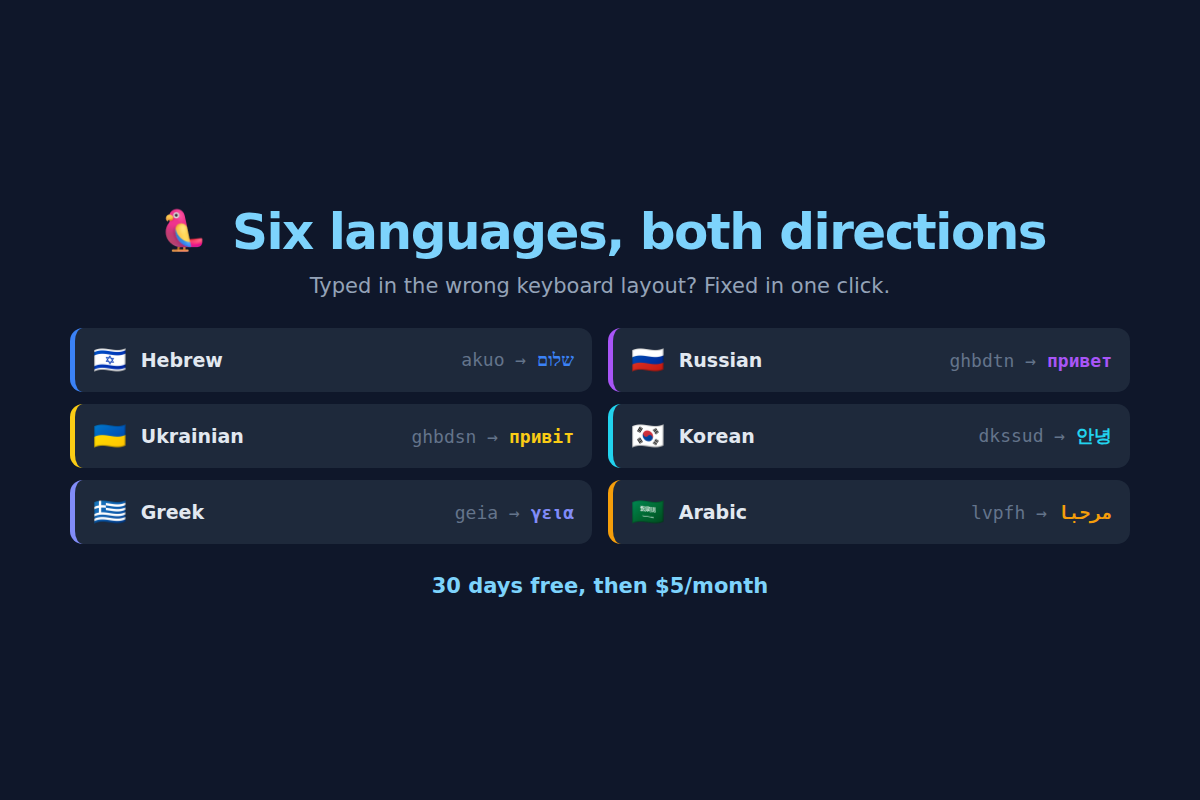
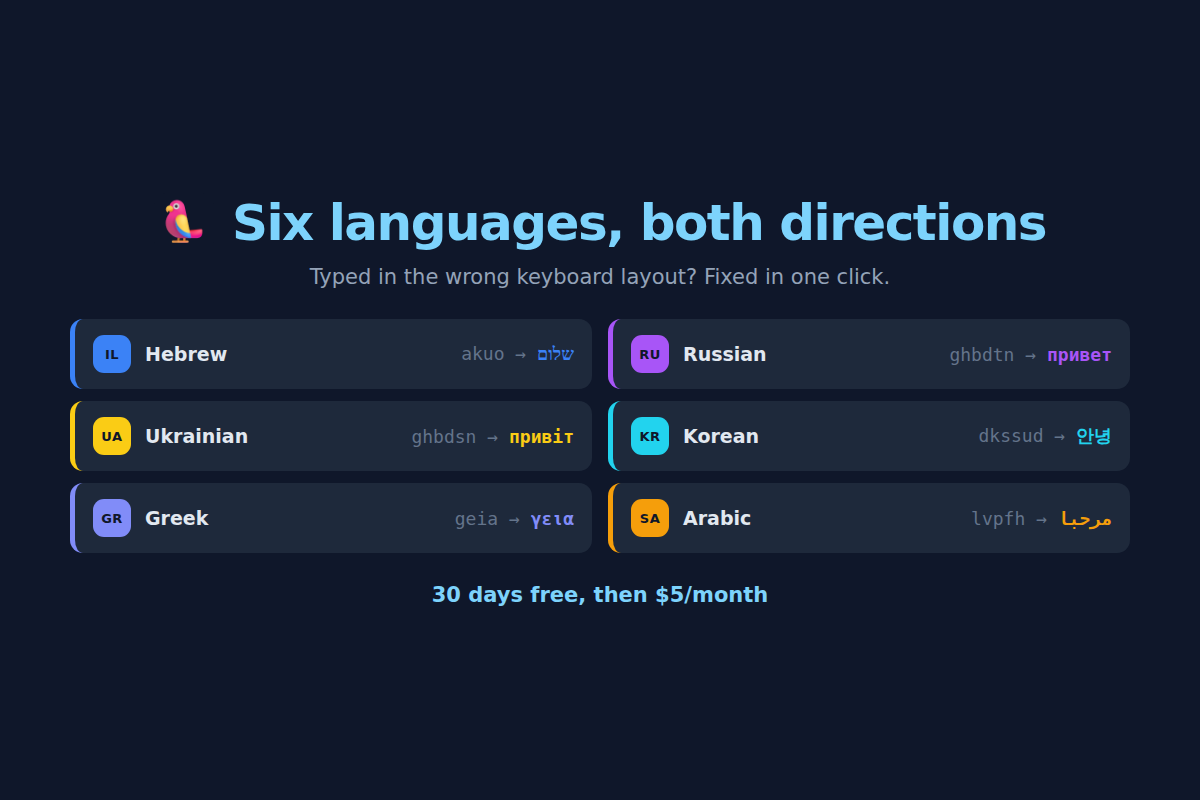
Draw the language flags ourselves so Windows sees them too
Windows has never shipped flag emoji. Every 🇮🇱 we rendered degraded to a
bare "IL" letter pair in a mismatched font — which is exactly what the
welcome screen looked like on the majority of installs.

Replace them with deliberate coloured letter badges everywhere the six
languages are listed: the onboarding screen, the site's hero tabs and
language cards, and the generated store artwork. Same appearance on every
OS, and it matches the per-language accent colours already in use.

The site's badge class is `tab-badge`, not `badge` — an existing `.badge`
rule absolutely-positions the pricing card's ribbon and was pulling the
tab markers out of the flow.

Claude-Session: https://claude.ai/code/session_012ch1muZeD9KHndnjzDPkWn

diff --git a/docs/index.html b/docs/index.html
@@ -83,6 +83,8 @@
       display:flex;align-items:center;gap:7px;transition:all .12s}
     .tab:hover{background:#fff;color:var(--ink)}
     .tab[aria-selected="true"]{background:var(--ink);color:#fff}
+    .tab-badge{width:22px;height:22px;border-radius:7px;display:grid;place-items:center;
+      font-size:9.5px;font-weight:900;letter-spacing:.03em;color:#12111a;background:#cfcce0}
     .demo-body{padding:28px}
     .field-label{font-size:12px;font-weight:700;letter-spacing:.1em;text-transform:uppercase;
       color:var(--ink-3);margin-bottom:9px;display:flex;align-items:center;gap:8px}
@@ -119,7 +121,8 @@
       box-shadow:var(--shadow);transition:transform .14s ease, box-shadow .14s ease}
     .lang:hover{transform:translateY(-3px);box-shadow:var(--shadow-lg)}
     .lang-top{display:flex;align-items:center;gap:11px;margin-bottom:18px}
-    .lang-flag{font-size:24px}
+    .lang-flag{flex:0 0 auto;width:32px;height:32px;border-radius:9px;display:grid;place-items:center;
+      font-size:12px;font-weight:900;letter-spacing:.04em;color:#12111a;background:#cfcce0}
     .lang-name{font-weight:800;font-size:17px;letter-spacing:-.01em}
     .lang-mean{margin-left:auto;font-size:13px;color:var(--ink-3)}
     .row{display:flex;align-items:center;gap:12px;padding:9px 0}
@@ -471,12 +474,14 @@
   // Every "typed" string below was produced by running the extension's own
   // converters over the native text — this is literally what Kiko would show.
   const LANGS = [
-    {code:'he', flag:'🇮🇱', name:'Hebrew',    native:'שלום',   roman:'shalom',   typed:'akuo',   mean:'hello', rtl:true},
-    {code:'ru', flag:'🇷🇺', name:'Russian',   native:'привет', roman:'privet',   typed:'ghbdtn', mean:'hi'},
-    {code:'uk', flag:'🇺🇦', name:'Ukrainian', native:'привіт', roman:'pryvit',   typed:'ghbdsn', mean:'hi'},
-    {code:'ko', flag:'🇰🇷', name:'Korean',    native:'안녕',    roman:'annyeong', typed:'dkssud', mean:'hi'},
-    {code:'el', flag:'🇬🇷', name:'Greek',     native:'γεια',   roman:'yia',      typed:'geia',   mean:'hi'},
-    {code:'ar', flag:'🇸🇦', name:'Arabic',    native:'مرحبا',  roman:'marhaba',  typed:'lvpfh',  mean:'hello', rtl:true}
+    // Deliberate letter badges, not flag emoji — Windows has never shipped flag
+    // glyphs and silently falls back to bare letters, so we draw them ourselves.
+    {code:'he', badge:'IL', tint:'#8fc0ff', name:'Hebrew',    native:'שלום',   roman:'shalom',   typed:'akuo',   mean:'hello', rtl:true},
+    {code:'ru', badge:'RU', tint:'#d3aef9', name:'Russian',   native:'привет', roman:'privet',   typed:'ghbdtn', mean:'hi'},
+    {code:'uk', badge:'UA', tint:'#fbe08a', name:'Ukrainian', native:'привіт', roman:'pryvit',   typed:'ghbdsn', mean:'hi'},
+    {code:'ko', badge:'KR', tint:'#93e7f5', name:'Korean',    native:'안녕',    roman:'annyeong', typed:'dkssud', mean:'hi'},
+    {code:'el', badge:'GR', tint:'#b9bdfa', name:'Greek',     native:'γεια',   roman:'yia',      typed:'geia',   mean:'hi'},
+    {code:'ar', badge:'SA', tint:'#fbd08a', name:'Arabic',    native:'مرحبا',  roman:'marhaba',  typed:'lvpfh',  mean:'hello', rtl:true}
   ];
 
   // -- hero demo ------------------------------------------------------------
@@ -485,7 +490,7 @@
     const b = document.createElement('button');
     b.className = 'tab'; b.type = 'button'; b.setAttribute('role','tab');
     b.setAttribute('aria-selected', i === 0 ? 'true' : 'false');
-    b.innerHTML = `<span>${l.flag}</span>${l.name}`;
+    b.innerHTML = `<span class="tab-badge" style="background:${l.tint}">${l.badge}</span>${l.name}`;
     b.addEventListener('click', () => select(i));
     tabs.appendChild(b);
   });
@@ -513,7 +518,7 @@
   document.getElementById('langcards').innerHTML = LANGS.map(l => `
     <div class="lang">
       <div class="lang-top">
-        <span class="lang-flag">${l.flag}</span>
+        <span class="lang-flag" style="background:${l.tint}">${l.badge}</span>
         <span class="lang-name">${l.name} ↔ English</span>
         <span class="lang-mean">"${l.mean}"</span>
       </div>

diff --git a/keylang/welcome.html b/keylang/welcome.html
@@ -55,7 +55,12 @@
     .lang-card.selected.uk { border-color: #facc15; background: #422006; }
     .lang-card.selected.ko { border-color: #22d3ee; background: #083344; }
     .lang-card.selected.el { border-color: #818cf8; background: #1e1b4b; }
-    .lang-icon { font-size: 28px; flex-shrink: 0; }
+    .lang-icon {
+      flex-shrink: 0; width: 38px; height: 38px; border-radius: 10px;
+      display: flex; align-items: center; justify-content: center;
+      font-size: 13px; font-weight: 800; letter-spacing: .04em;
+      color: #0f172a; background: #64748b;
+    }
     .lang-info { flex: 1; }
     .lang-name { font-size: 15px; font-weight: 700; color: #e2e8f0; }
     .lang-example { font-size: 12px; color: #64748b; margin-top: 2px; }
@@ -95,7 +100,7 @@
     <div class="question">Select your language(s)</div>
     <div class="lang-grid">
       <div class="lang-card" id="card-he" data-lang="he">
-        <div class="lang-icon">🇮🇱</div>
+        <div class="lang-icon" style="background:#3b82f6">IL</div>
         <div class="lang-info">
           <div class="lang-name">Hebrew</div>
           <div class="lang-example">Typed <em>akuo</em> but meant <strong>שלום</strong></div>
@@ -103,7 +108,7 @@
         <div class="lang-check" id="check-he"></div>
       </div>
       <div class="lang-card ru" id="card-ru" data-lang="ru">
-        <div class="lang-icon">🇷🇺</div>
+        <div class="lang-icon" style="background:#a855f7">RU</div>
         <div class="lang-info">
           <div class="lang-name">Russian</div>
           <div class="lang-example">Typed <em>ghbdtn</em> but meant <strong>привет</strong></div>
@@ -111,7 +116,7 @@
         <div class="lang-check" id="check-ru"></div>
       </div>
       <div class="lang-card ar" id="card-ar" data-lang="ar">
-        <div class="lang-icon">🇸🇦</div>
+        <div class="lang-icon" style="background:#f59e0b">SA</div>
         <div class="lang-info">
           <div class="lang-name">Arabic</div>
           <div class="lang-example">Typed <em>ahlan</em> but meant <strong>اهلان</strong></div>
@@ -119,7 +124,7 @@
         <div class="lang-check" id="check-ar"></div>
       </div>
       <div class="lang-card uk" id="card-uk" data-lang="uk">
-        <div class="lang-icon">🇺🇦</div>
+        <div class="lang-icon" style="background:#facc15">UA</div>
         <div class="lang-info">
           <div class="lang-name">Ukrainian</div>
           <div class="lang-example">Typed <em>ghbdsn</em> but meant <strong>привіт</strong></div>
@@ -127,7 +132,7 @@
         <div class="lang-check" id="check-uk"></div>
       </div>
       <div class="lang-card ko" id="card-ko" data-lang="ko">
-        <div class="lang-icon">🇰🇷</div>
+        <div class="lang-icon" style="background:#22d3ee">KR</div>
         <div class="lang-info">
           <div class="lang-name">Korean</div>
           <div class="lang-example">Typed <em>dkssud</em> but meant <strong>안녕</strong></div>
@@ -135,7 +140,7 @@
         <div class="lang-check" id="check-ko"></div>
       </div>
       <div class="lang-card el" id="card-el" data-lang="el">
-        <div class="lang-icon">🇬🇷</div>
+        <div class="lang-icon" style="background:#818cf8">GR</div>
         <div class="lang-info">
           <div class="lang-name">Greek</div>
           <div class="lang-example">Typed <em>geia</em> but meant <strong>γεια</strong></div>

diff --git a/keylang/make-store-assets.py b/keylang/make-store-assets.py
@@ -73,7 +73,12 @@ h1 { font-size:46px; color:#7dd3fc; margin-bottom:8px; font-weight:800; }
 .grid { display:grid; grid-template-columns:repeat(2,minmax(0,440px)); gap:16px 26px; }
 .row { display:flex; align-items:center; gap:16px; background:#1e293b;
   border-radius:12px; padding:18px 22px; border-left:4px solid var(--c); }
-.flag { font-size:30px; }
+/* Letter badges rather than flag emoji: Windows draws no flag glyphs and
+   silently degrades them to bare letter pairs. Draw them ourselves so the
+   screenshot matches what every user actually sees. */
+.flag { flex:0 0 auto; width:40px; height:40px; border-radius:11px; background:var(--c);
+  display:flex; align-items:center; justify-content:center;
+  font-size:14px; font-weight:800; letter-spacing:.04em; color:#0f172a; }
 .pair { flex:1; }
 .name { font-size:17px; font-weight:700; color:#e2e8f0; }
 .ex { font-size:15px; color:#64748b; margin-top:3px; font-family:ui-monospace,monospace; }
@@ -83,17 +88,17 @@ h1 { font-size:46px; color:#7dd3fc; margin-bottom:8px; font-weight:800; }
 <h1><img src="icon128.png" alt="" width="42" height="42" style="border-radius:11px;vertical-align:-7px"> Six languages, both directions</h1>
 <div class="sub">Kiko reads what you typed and what you meant — then fixes it in one click.</div>
 <div class="grid">
-  <div class="row" style="--c:#3b82f6"><span class="flag">🇮🇱</span><div class="pair">
+  <div class="row" style="--c:#3b82f6"><span class="flag">IL</span><div class="pair">
     <div class="name">Hebrew ↔ English</div><div class="ex">akuo → <b>שלום</b></div></div></div>
-  <div class="row" style="--c:#a855f7"><span class="flag">🇷🇺</span><div class="pair">
+  <div class="row" style="--c:#a855f7"><span class="flag">RU</span><div class="pair">
     <div class="name">Russian ↔ English</div><div class="ex">ghbdtn → <b>привет</b></div></div></div>
-  <div class="row" style="--c:#facc15"><span class="flag">🇺🇦</span><div class="pair">
+  <div class="row" style="--c:#facc15"><span class="flag">UA</span><div class="pair">
     <div class="name">Ukrainian ↔ English</div><div class="ex">ghbdsn → <b>привіт</b></div></div></div>
-  <div class="row" style="--c:#22d3ee"><span class="flag">🇰🇷</span><div class="pair">
+  <div class="row" style="--c:#22d3ee"><span class="flag">KR</span><div class="pair">
     <div class="name">Korean ↔ English</div><div class="ex">dkssud → <b>안녕</b></div></div></div>
-  <div class="row" style="--c:#818cf8"><span class="flag">🇬🇷</span><div class="pair">
+  <div class="row" style="--c:#818cf8"><span class="flag">GR</span><div class="pair">
     <div class="name">Greek ↔ English</div><div class="ex">geia → <b>γεια</b></div></div></div>
-  <div class="row" style="--c:#f59e0b"><span class="flag">🇸🇦</span><div class="pair">
+  <div class="row" style="--c:#f59e0b"><span class="flag">SA</span><div class="pair">
     <div class="name">Arabic ↔ English</div><div class="ex">lvpfh → <b>مرحبا</b></div></div></div>
 </div>
 <div class="foot">30 days free · No account · Nothing leaves your browser</div>
@@ -116,7 +121,10 @@ h1 img{width:60px;height:60px;border-radius:15px}
 .rows{display:grid;grid-template-columns:1fr 1fr;gap:12px 16px;width:100%}
 .row{display:flex;align-items:center;gap:14px;background:#1e293b;border-radius:13px;
   padding:16px 18px;border-left:5px solid var(--c)}
-.flag{font-size:27px}
+/* Letter badges, not flag emoji — Windows renders no flag glyphs. */
+.flag{flex:0 0 auto;width:38px;height:38px;border-radius:11px;background:var(--c);
+  display:flex;align-items:center;justify-content:center;
+  font-size:13px;font-weight:800;letter-spacing:.04em;color:#0f172a}
 .name{font-size:19px;font-weight:700;color:#e2e8f0;flex:1}
 .ex{font-size:18px;color:#64748b;font-family:ui-monospace,monospace}
 .ex b{color:var(--c);font-family:inherit}
@@ -125,12 +133,12 @@ h1 img{width:60px;height:60px;border-radius:15px}
 <h1><img src="icon128.png" alt=""> Six languages, both directions</h1>
 <div class="sub">Typed in the wrong keyboard layout? Fixed in one click.</div>
 <div class="rows">
-  <div class="row" style="--c:#3b82f6"><span class="flag">&#127470;&#127473;</span><span class="name">Hebrew</span><span class="ex">akuo &rarr; <b>&#1513;&#1500;&#1493;&#1501;</b></span></div>
-  <div class="row" style="--c:#a855f7"><span class="flag">&#127479;&#127482;</span><span class="name">Russian</span><span class="ex">ghbdtn &rarr; <b>&#1087;&#1088;&#1080;&#1074;&#1077;&#1090;</b></span></div>
-  <div class="row" style="--c:#facc15"><span class="flag">&#127482;&#127462;</span><span class="name">Ukrainian</span><span class="ex">ghbdsn &rarr; <b>&#1087;&#1088;&#1080;&#1074;&#1110;&#1090;</b></span></div>
-  <div class="row" style="--c:#22d3ee"><span class="flag">&#127472;&#127479;</span><span class="name">Korean</span><span class="ex">dkssud &rarr; <b>&#50504;&#45397;</b></span></div>
-  <div class="row" style="--c:#818cf8"><span class="flag">&#127468;&#127479;</span><span class="name">Greek</span><span class="ex">geia &rarr; <b>&#947;&#949;&#953;&#945;</b></span></div>
-  <div class="row" style="--c:#f59e0b"><span class="flag">&#127480;&#127462;</span><span class="name">Arabic</span><span class="ex">lvpfh &rarr; <b>&#1605;&#1585;&#1581;&#1576;&#1575;</b></span></div>
+  <div class="row" style="--c:#3b82f6"><span class="flag">IL</span><span class="name">Hebrew</span><span class="ex">akuo &rarr; <b>&#1513;&#1500;&#1493;&#1501;</b></span></div>
+  <div class="row" style="--c:#a855f7"><span class="flag">RU</span><span class="name">Russian</span><span class="ex">ghbdtn &rarr; <b>&#1087;&#1088;&#1080;&#1074;&#1077;&#1090;</b></span></div>
+  <div class="row" style="--c:#facc15"><span class="flag">UA</span><span class="name">Ukrainian</span><span class="ex">ghbdsn &rarr; <b>&#1087;&#1088;&#1080;&#1074;&#1110;&#1090;</b></span></div>
+  <div class="row" style="--c:#22d3ee"><span class="flag">KR</span><span class="name">Korean</span><span class="ex">dkssud &rarr; <b>&#50504;&#45397;</b></span></div>
+  <div class="row" style="--c:#818cf8"><span class="flag">GR</span><span class="name">Greek</span><span class="ex">geia &rarr; <b>&#947;&#949;&#953;&#945;</b></span></div>
+  <div class="row" style="--c:#f59e0b"><span class="flag">SA</span><span class="name">Arabic</span><span class="ex">lvpfh &rarr; <b>&#1605;&#1585;&#1581;&#1576;&#1575;</b></span></div>
 </div>
 <div class="foot">30 days free, then $5/month</div>
 </body></html>"""
